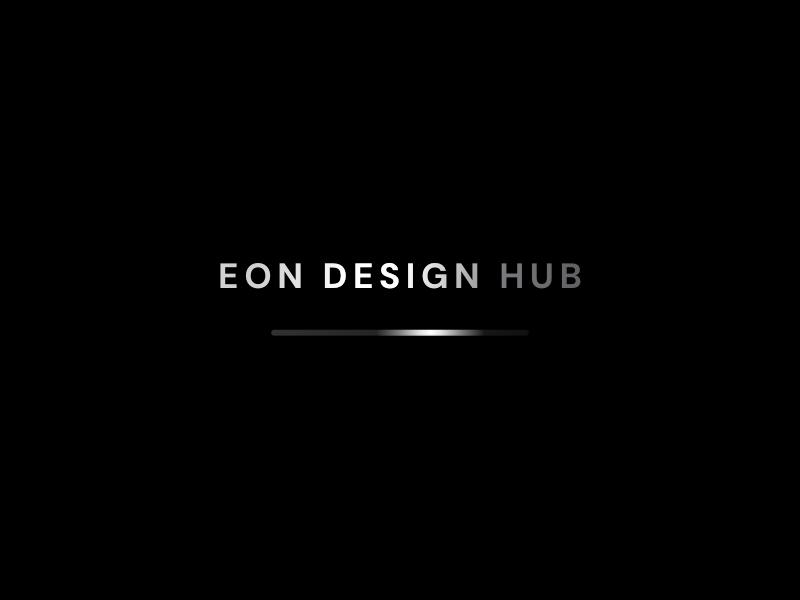
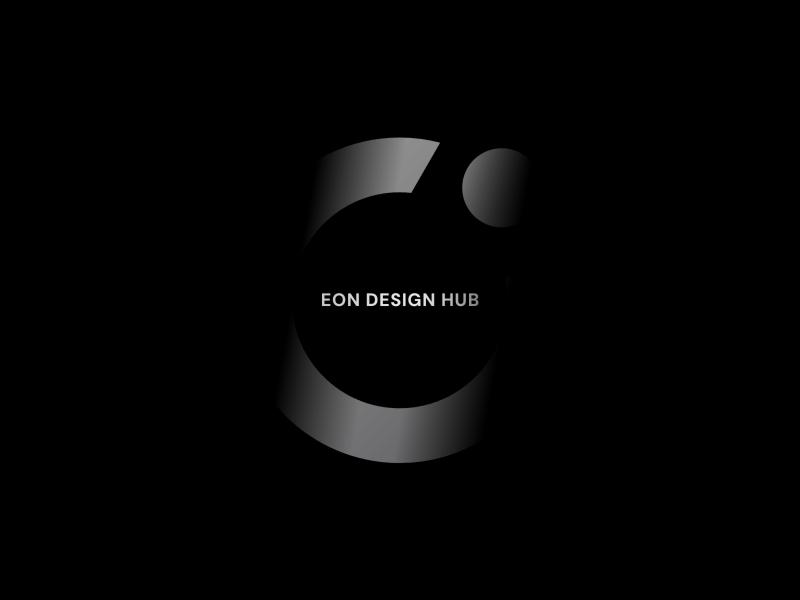
Loading screen: title only, tighter tracking, the sweep lights the Eon mark behind it

diff --git a/src/index.css b/src/index.css
@@ -82,14 +82,15 @@
 .eon-app-splash, .eon-app-error { display: grid; min-height: 100vh; min-height: 100dvh; place-items: center; background: #000; color: #9094A5; }
 .eon-app-splash { grid-auto-flow: column; gap: 10px; font-size: 13px; }
 .eon-app-spinner { width: 16px; height: 16px; border: 2px solid rgba(221, 14, 255, .16); border-top-color: var(--eon-accent-end); border-radius: 50%; animation: eon-spin 800ms linear infinite; }
-.eon-loading-screen { display: flex; min-height: 100vh; min-height: 100dvh; flex-direction: column; align-items: center; justify-content: center; gap: 14px; background: #000; color: #fff; font-family: 'DM Sans', sans-serif; animation: eon-loading-fade 220ms ease-out; }
-.eon-loading-screen strong { display: inline-block; white-space: nowrap; font-size: 18px; font-weight: 700; letter-spacing: .16em; text-indent: .16em; text-transform: uppercase; color: #A2A2A6; background: linear-gradient(100deg, transparent 36%, #fff 47%, #fff 53%, transparent 64%) no-repeat, linear-gradient(90deg, #D6D6D9 0%, #A2A2A6 45%, #5E5D61 100%); background-size: 250% 100%, 100% 100%; background-position: 100% 0, 0 0; -webkit-background-clip: text; background-clip: text; -webkit-text-fill-color: transparent; animation: eon-loading-flash 1.9s cubic-bezier(.65,0,.35,1) infinite; }
-.eon-loading-bar { width: 132px; height: 3px; overflow: hidden; border-radius: 999px; background: linear-gradient(90deg, rgba(227,227,228,.22), rgba(120,119,122,.14)); }
-.eon-loading-bar span { display: block; width: 42%; height: 100%; border-radius: 999px; background: linear-gradient(90deg, transparent, #78777A 20%, #E3E3E4 40%, #fff 50%, #E3E3E4 60%, #78777A 80%, transparent); transform: translateX(-110%); animation: eon-loading-slide 1.9s cubic-bezier(.65,0,.35,1) infinite; }
+.eon-loading-screen { --eon-loading-size: min(340px, 86vw); position: relative; display: flex; min-height: 100vh; min-height: 100dvh; flex-direction: column; align-items: center; justify-content: center; overflow: hidden; background: #000; color: #fff; font-family: 'DM Sans', sans-serif; animation: eon-loading-fade 220ms ease-out; }
+/* The title and the mark behind it are the same width and share one light:
+   a band that crosses left to right, then rests. The mark is masked by the
+   band, so it only shows while the light is on it. */
+.eon-loading-screen strong { position: relative; display: block; width: var(--eon-loading-size); white-space: nowrap; text-align: center; font-size: 18px; font-weight: 700; letter-spacing: .04em; text-indent: .04em; text-transform: uppercase; color: #A2A2A6; background: linear-gradient(100deg, transparent 40%, #fff 48%, #fff 52%, transparent 60%) no-repeat, linear-gradient(90deg, #D6D6D9 25%, #A2A2A6 50%, #5E5D61 75%); background-size: 300% 100%, 100% 100%; background-position: 100% 0, 0 0; -webkit-background-clip: text; background-clip: text; -webkit-text-fill-color: transparent; animation: eon-loading-flash 1.9s cubic-bezier(.65,0,.35,1) infinite; }
+.eon-loading-glyph { position: absolute; top: 50%; left: 50%; width: var(--eon-loading-size); height: var(--eon-loading-size); transform: translate(-50%, -50%); opacity: .7; -webkit-mask: linear-gradient(100deg, transparent 40%, #000 48%, #000 52%, transparent 60%) 100% 0 / 300% 100% no-repeat; mask: linear-gradient(100deg, transparent 40%, #000 48%, #000 52%, transparent 60%) 100% 0 / 300% 100% no-repeat; animation: eon-loading-reveal 1.9s cubic-bezier(.65,0,.35,1) infinite; }
 @keyframes eon-loading-fade { from { opacity: 0; } to { opacity: 1; } }
-/* One pass of light, then a rest: the title and the bar flash together. */
-@keyframes eon-loading-slide { 0% { transform: translateX(-110%); } 48%, 100% { transform: translateX(350%); } }
 @keyframes eon-loading-flash { 0% { background-position: 100% 0, 0 0; } 48%, 100% { background-position: 0% 0, 0 0; } }
+@keyframes eon-loading-reveal { 0% { -webkit-mask-position: 100% 0; mask-position: 100% 0; } 48%, 100% { -webkit-mask-position: 0% 0; mask-position: 0% 0; } }
 .eon-app-error { padding: 24px; }
 .eon-app-error > div { width: min(420px, 100%); padding: 28px; border-radius: 18px; background: #121216; box-shadow: var(--shadow-surface); text-align: center; }
 .eon-app-error span { color: #fff; font-size: 17px; font-weight: 650; }
@@ -1391,8 +1392,7 @@ button.eon-save-state { cursor: pointer; }
 
 @media (prefers-reduced-motion: reduce) {
   .eon-modal { transition-duration: 0ms; transform: none; }
-  .eon-spin, .eon-app-spinner, .eon-loading-bar span, .eon-loading-screen strong { animation: none; }
-  .eon-loading-bar span { transform: none; width: 100%; opacity: .6; }
+  .eon-spin, .eon-app-spinner, .eon-loading-screen strong, .eon-loading-glyph { animation: none; }
   .eon-toast { animation: none; }
   .eon-live-dot, .eon-sync-chip.is-syncing { animation: none; }
 }

diff --git a/src/components/LoadingScreen.jsx b/src/components/LoadingScreen.jsx
@@ -1,10 +1,26 @@
 // Full-screen loading state, shared by the app splash (auth/chunk loads) and
-// the hub's first data fetch. The status line is for screen readers only.
+// the hub's first data fetch. A light sweeps across the title; as it passes,
+// it lights the Eon mark in the dark behind it. The status line is for screen
+// readers only.
 export default function LoadingScreen({ children = "Loading…" }) {
   return (
     <div className="eon-loading-screen" role="status" aria-live="polite">
+      <svg className="eon-loading-glyph" viewBox="180 180 520 520" aria-hidden="true">
+        <defs>
+          <linearGradient id="eon-loading-chrome" x1="0" y1="0" x2="1" y2="1">
+            <stop offset="0" stopColor="#FFFFFF" />
+            <stop offset="1" stopColor="#8B8B90" />
+          </linearGradient>
+        </defs>
+        <g fill="url(#eon-loading-chrome)">
+          <path
+            transform="translate(439.43 440.44) scale(.72) translate(-439.43 -440.44)"
+            d="M767.23 333.07L663.354 393.233C666.512 408.419 668.187 424.251 668.187 440.406C668.187 521.442 626.044 592.913 562.508 633.689C526.938 656.565 484.73 669.812 439.43 669.812C313.323 669.812 210.672 566.87 210.672 440.406C210.672 378.499 235.288 322.214 275.24 280.921C316.803 237.818 375.055 211 439.43 211C447.742 211 455.99 211.453 464.11 212.357L525.004 106.701L525.327 105.603C497.876 98.4299 469.007 94.6818 439.43 94.6818C332.075 94.6818 236.061 144.182 172.782 221.598C123.937 281.244 94.6821 357.497 94.6821 440.471C94.6821 631.104 249.335 786.195 439.43 786.195C505.802 786.195 567.856 767.261 620.503 734.498C718.707 673.496 784.113 564.479 784.113 440.471C784.113 402.991 778.12 366.932 767.101 333.135L767.23 333.07Z"
+          />
+          <circle cx="595.645" cy="268.357" r="60.486" />
+        </g>
+      </svg>
       <strong>Eon Design Hub</strong>
-      <div className="eon-loading-bar" aria-hidden="true"><span /></div>
       <span className="sr-only">{children}</span>
     </div>
   );

diff --git a/src/lib/changelog.js b/src/lib/changelog.js
@@ -22,12 +22,12 @@ export const CHANGELOG = [
     date: "2026-11-18",
     title: "A metallic loading screen",
     image: "changelog/2026-11-18-loading-screen.png",
-    imageAlt: "The loading screen, with a flash of light crossing the chrome title and bar.",
+    imageAlt: "The loading screen, with the light crossing the title and lighting the Eon mark behind it.",
     groups: [
       {
         label: "Design",
         items: [
-          "The loading screen is just EON DESIGN HUB in bold chrome and a bar. A flash of light sweeps across both, left to right, while the hub loads.",
+          "The loading screen is just EON DESIGN HUB in bold chrome. A light sweeps across it, left to right, and for a moment lights the Eon mark in the dark behind it.",
         ],
       },
     ],
